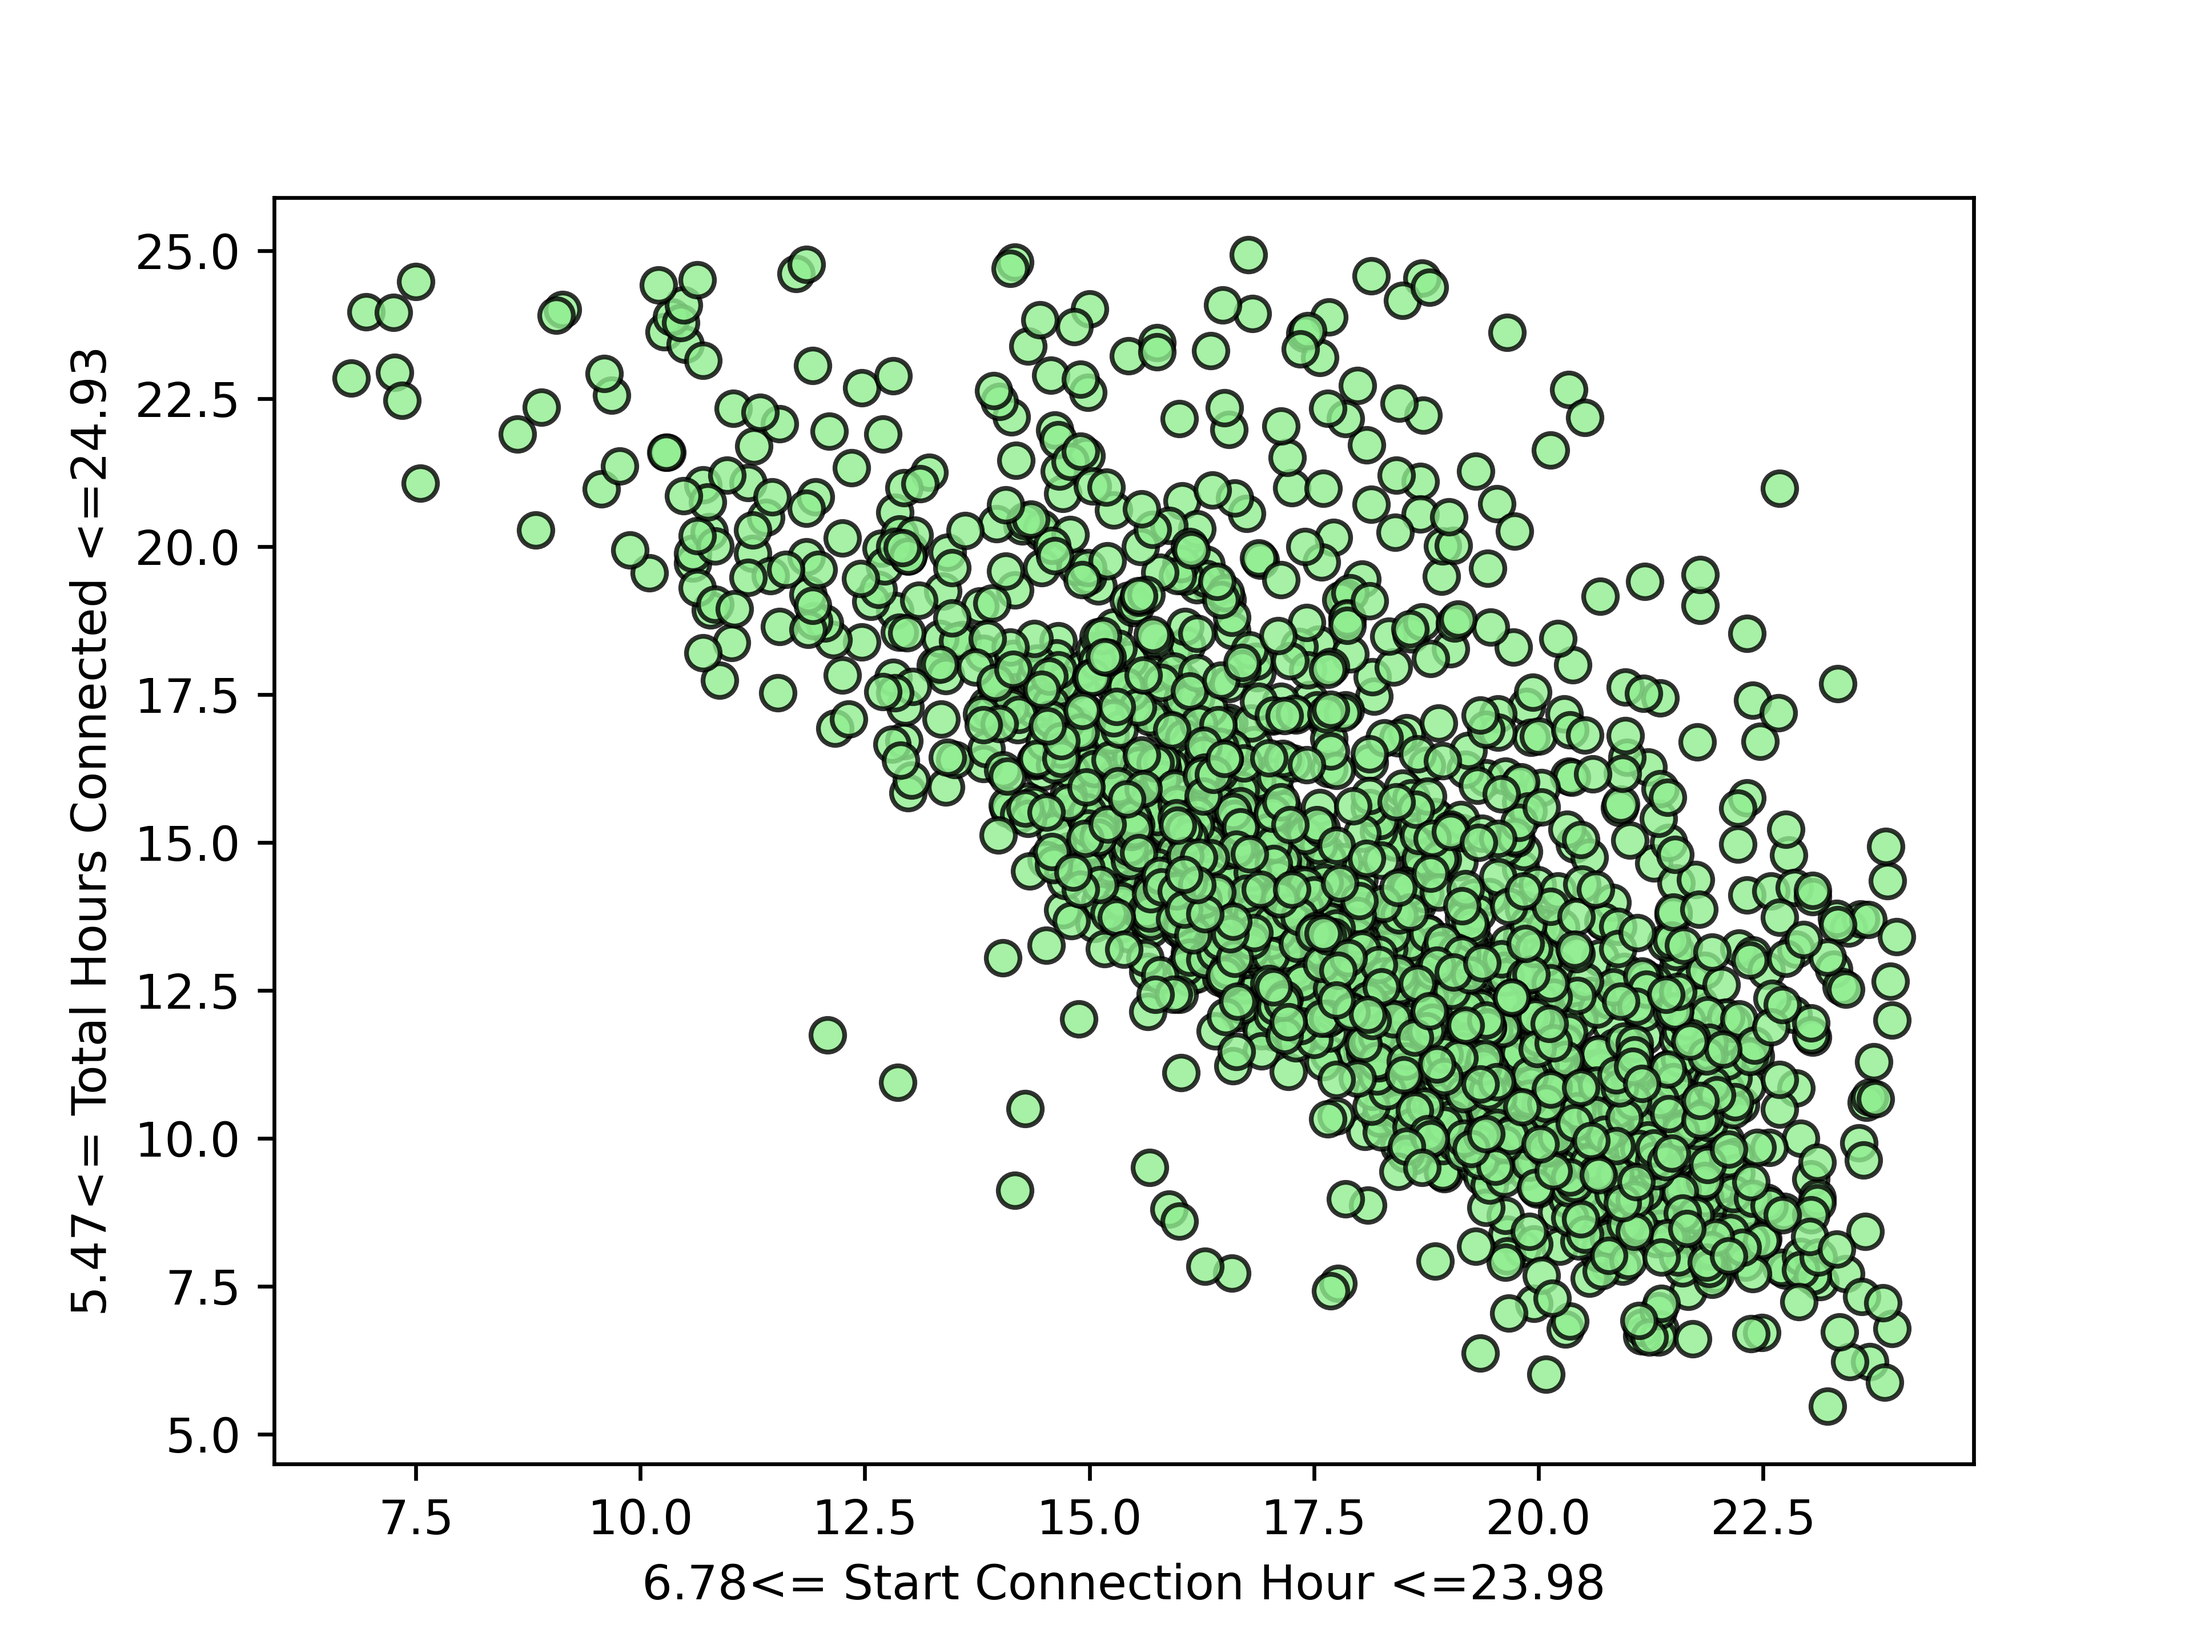
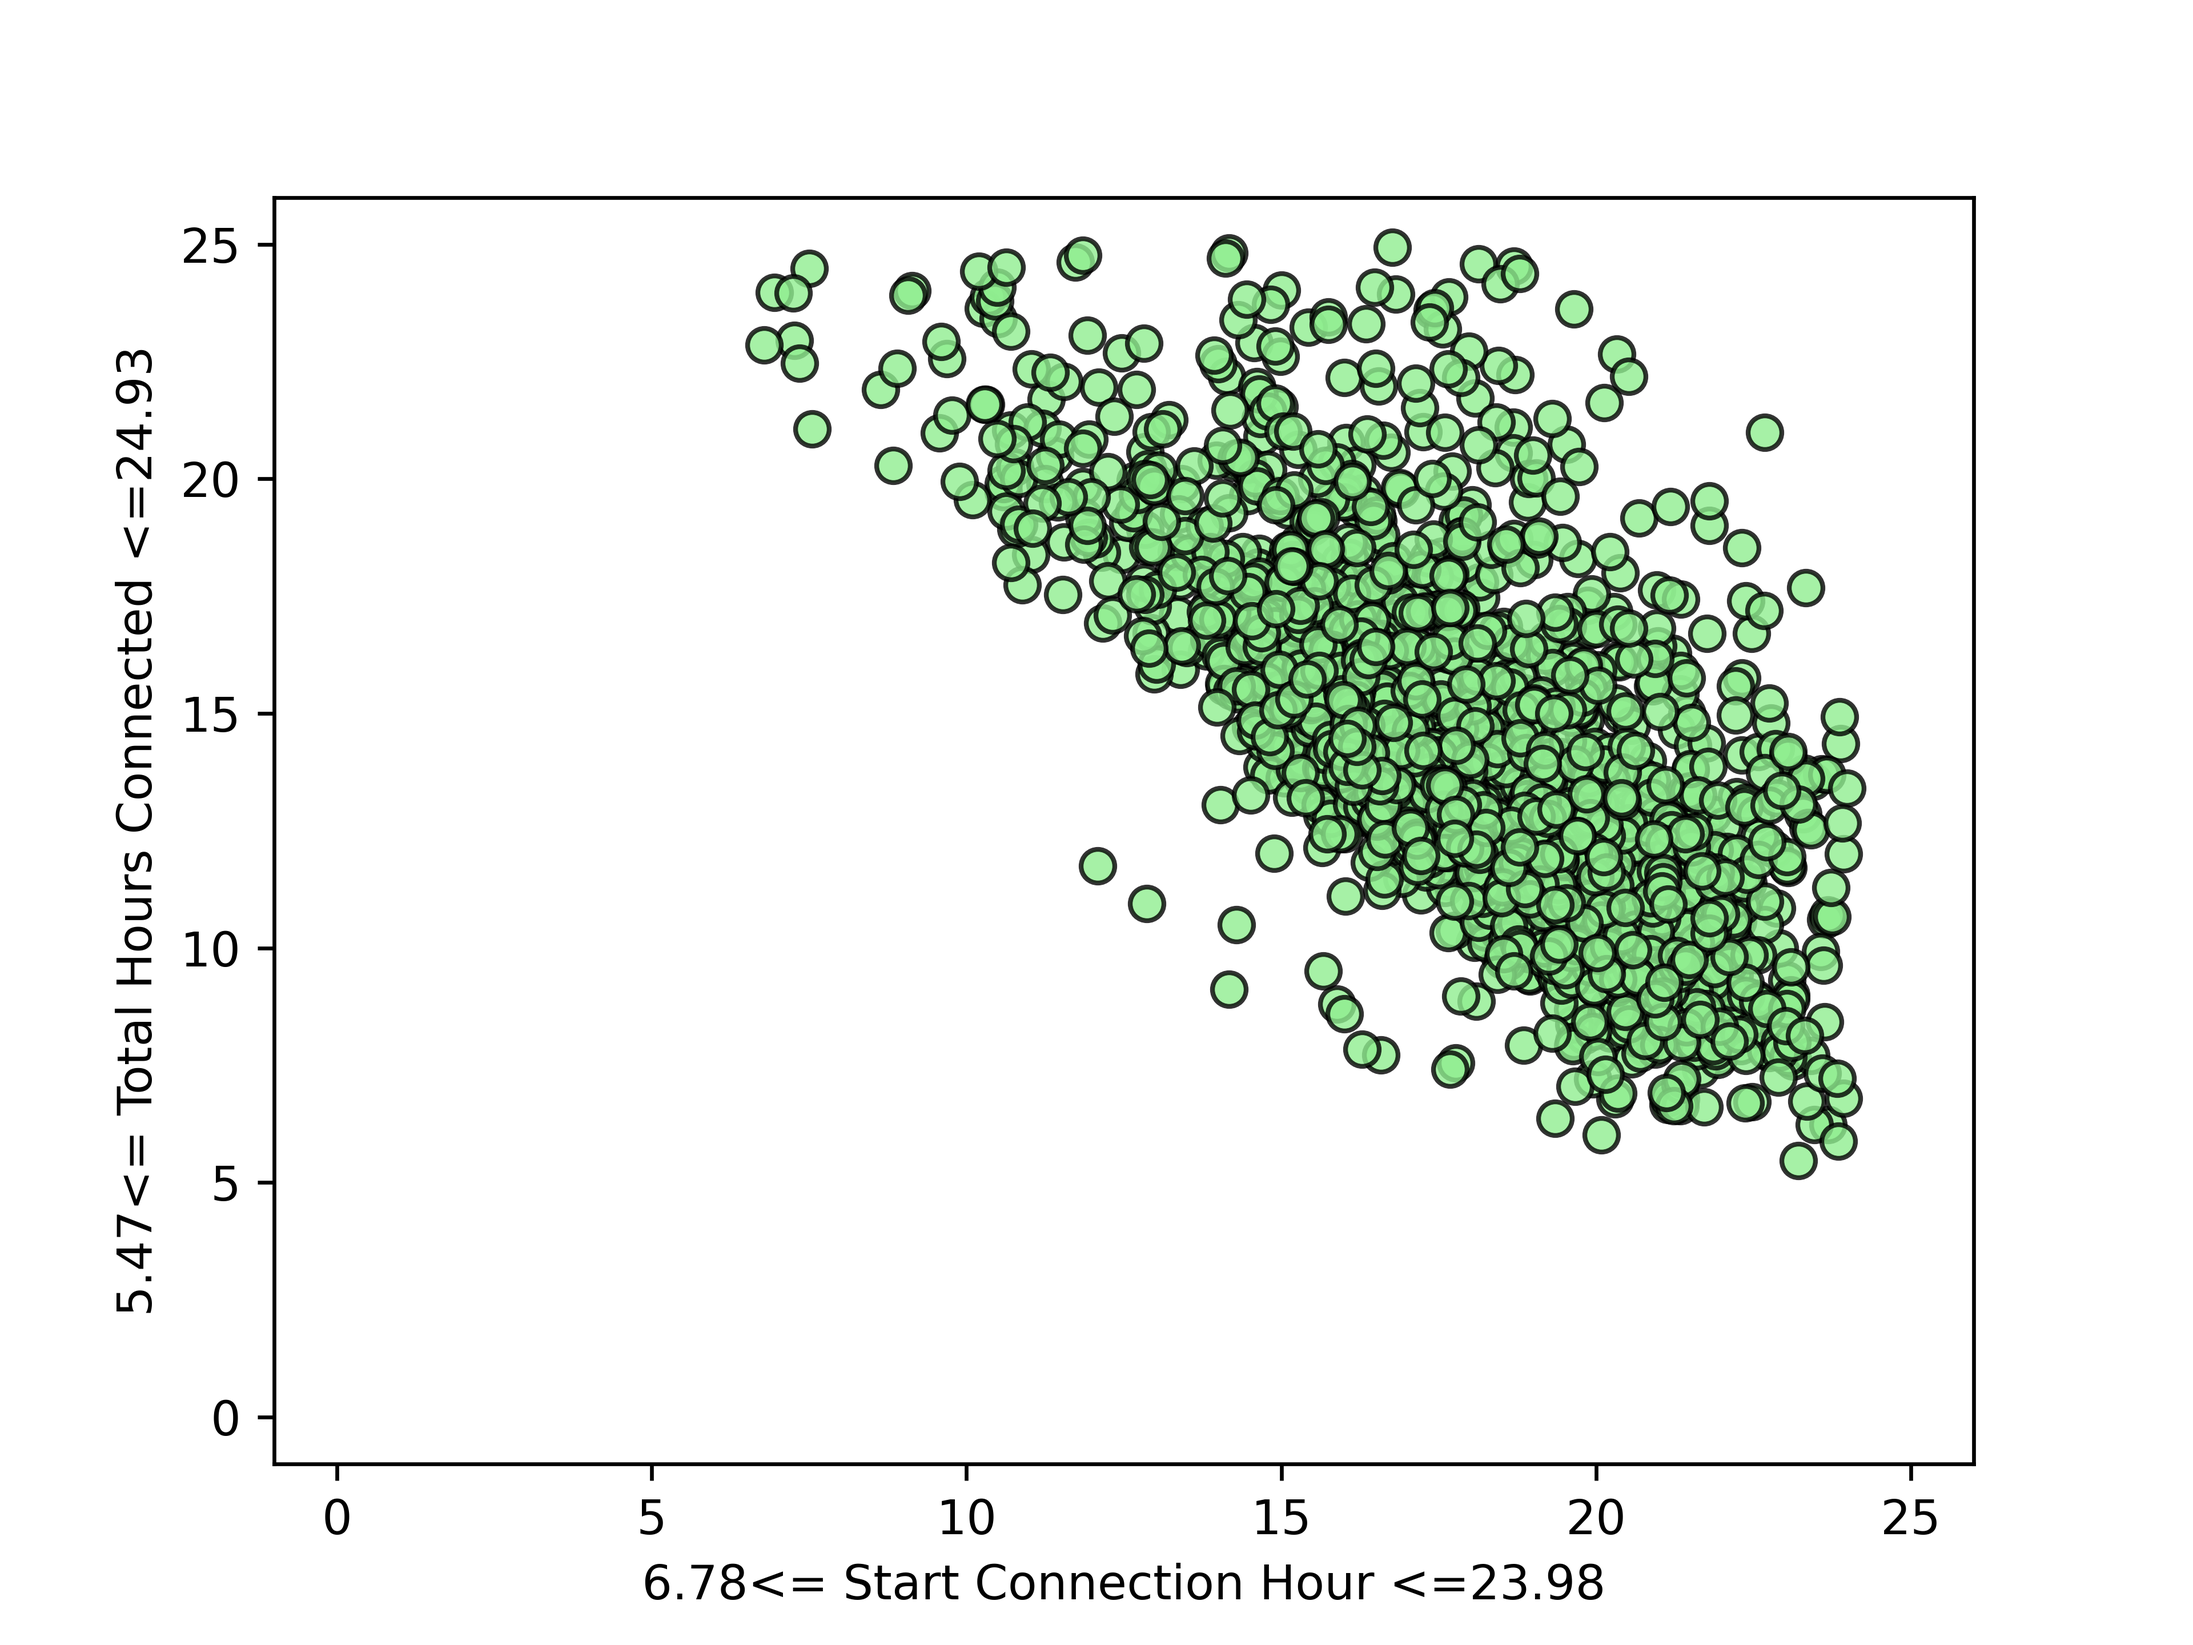
Created individual clusters for GMM.

diff --git a/regression_per_GMM_cluster.py b/regression_per_GMM_cluster.py
@@ -30,6 +30,7 @@ plt.scatter(data['Start Integer Hour_P'], data['ConnectedTime'], edgecolors='k',
 plt.title('Start Time and Total Connected Time')
 plt.xlabel('Start Connection Hour ')
 plt.ylabel('Total Hours Connected')
+plt.savefig('scatter', dpi=600)
 plt.show()
 
 n_components = 4
@@ -54,7 +55,8 @@ for k in range(0, 4):
     y_pred = reg.predict(x)
     print("Prediction with: " + str(k) + str(reg.predict(np.array([[19]]))))
     print("Score :" + str(reg.score(x, y) * 100))
-
+    plt.xlim(-1, 26)
+    plt.ylim(-1, 26)
     plt.scatter(data['Start Integer Hour_P'], data['ConnectedTime'], c=color[k], edgecolors='k',
                 s=50, alpha=.8)
     max_x = round(float(max(x)), 2)
@@ -64,6 +66,7 @@ for k in range(0, 4):
     plt.xlabel(str(min_x) + '<= Start Connection Hour <=' + str(max_x))
     plt.ylabel(str(min_y) + '<= Total Hours Connected <=' + str(max_y))
     plt.savefig("cluster-"+str(k + 1), dpi=600)
+    plt.show()
     plt.close()
 
 color = ['lightgreen', 'yellow', 'deeppink', 'orange', 'magenta', 'yellow', 'black', 'orange', 'pink']
